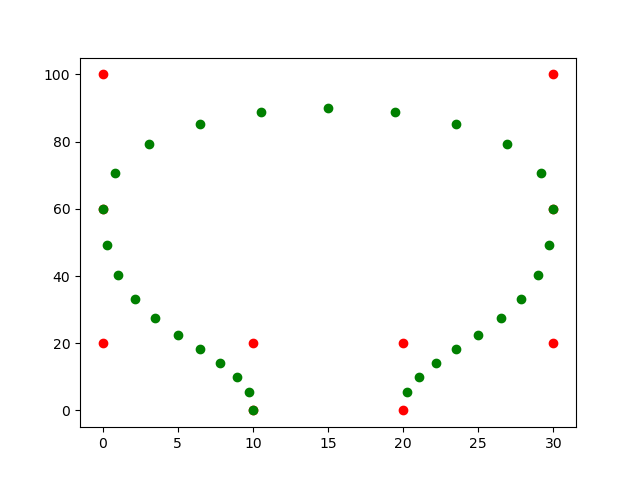
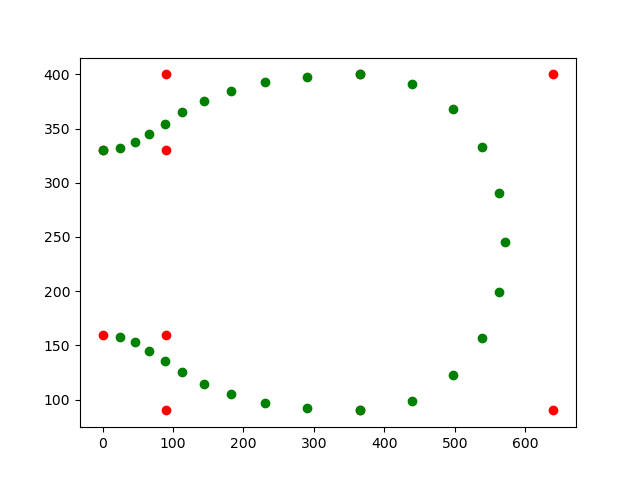
bad rotation of full object

diff --git a/tests/test_puzzle_piece_creation.py b/tests/test_puzzle_piece_creation.py
@@ -5,8 +5,8 @@ from Process.line_warpers import generate_anchor_point_coordinates, rotate
 
 
 @pytest.mark.parametrize(
-    ("start_coord", "stop_coord", "neck_width", "neck_height", "head_width", "head_height", "expected_coords"),
-    ((10, 0), (20, 0), 10, 20, 30, 80, 
+    "start_coord,stop_coord,neck_width,neck_height,head_width,head_height,expected_coords",
+    [((10, 0), (20, 0), 10, 20, 30, 80, 
      [
         (10.0, 0.0),
         (10.0, 20.0),
@@ -19,21 +19,20 @@ from Process.line_warpers import generate_anchor_point_coordinates, rotate
         (20.0, 20.0),
         (20.0, 0.0),
     ]),
-    ((0., 160.), (0., 300.), 140, 90, 310, 550,
-    [
-        (0.0, 160.0),
-        (90.0, 160.0),
+    ((0., 300.), (0., 160.), 170, 90, 400, 550,
+[
+        (0.0, 330.0),
+        (90.0, 330.0),
         (90.0, 400.0),
         (365.0, 400.0),
         (640.0, 400.0),
         (640.0, 90.0),
         (365.0, 90.0),
         (90.0, 90.0),
-        (90.0, 330.0),
-        (0.0, 330.0),
-     
-     ],
-    )
+        (90.0, 160.0),
+        (0.0, 160.0),
+     ]),
+    ],
 )
 def test_generate_anchor_point_coordinates(start_coord, stop_coord, neck_width, neck_height, head_width, head_height, expected_coords):
     """Test the generate_interlocking_segment function."""

diff --git a/Process/line_warpers.py b/Process/line_warpers.py
@@ -64,7 +64,7 @@ def generate_anchor_point_coordinates(start_coord, stop_coord, neck_width, neck_
     # Rotate the coordinates to align with the base line
     origin = midpoint(start_coord, stop_coord)
     angle = math.atan2(stop_coord[1] - start_coord[1], stop_coord[0] - start_coord[0])
-    anchor_points = [rotate(origin, point, angle) for point in anchor_points]
+    anchor_points[1:9] = [rotate(origin, point, angle) for point in anchor_points[1:9]]
 
     return anchor_points
 
